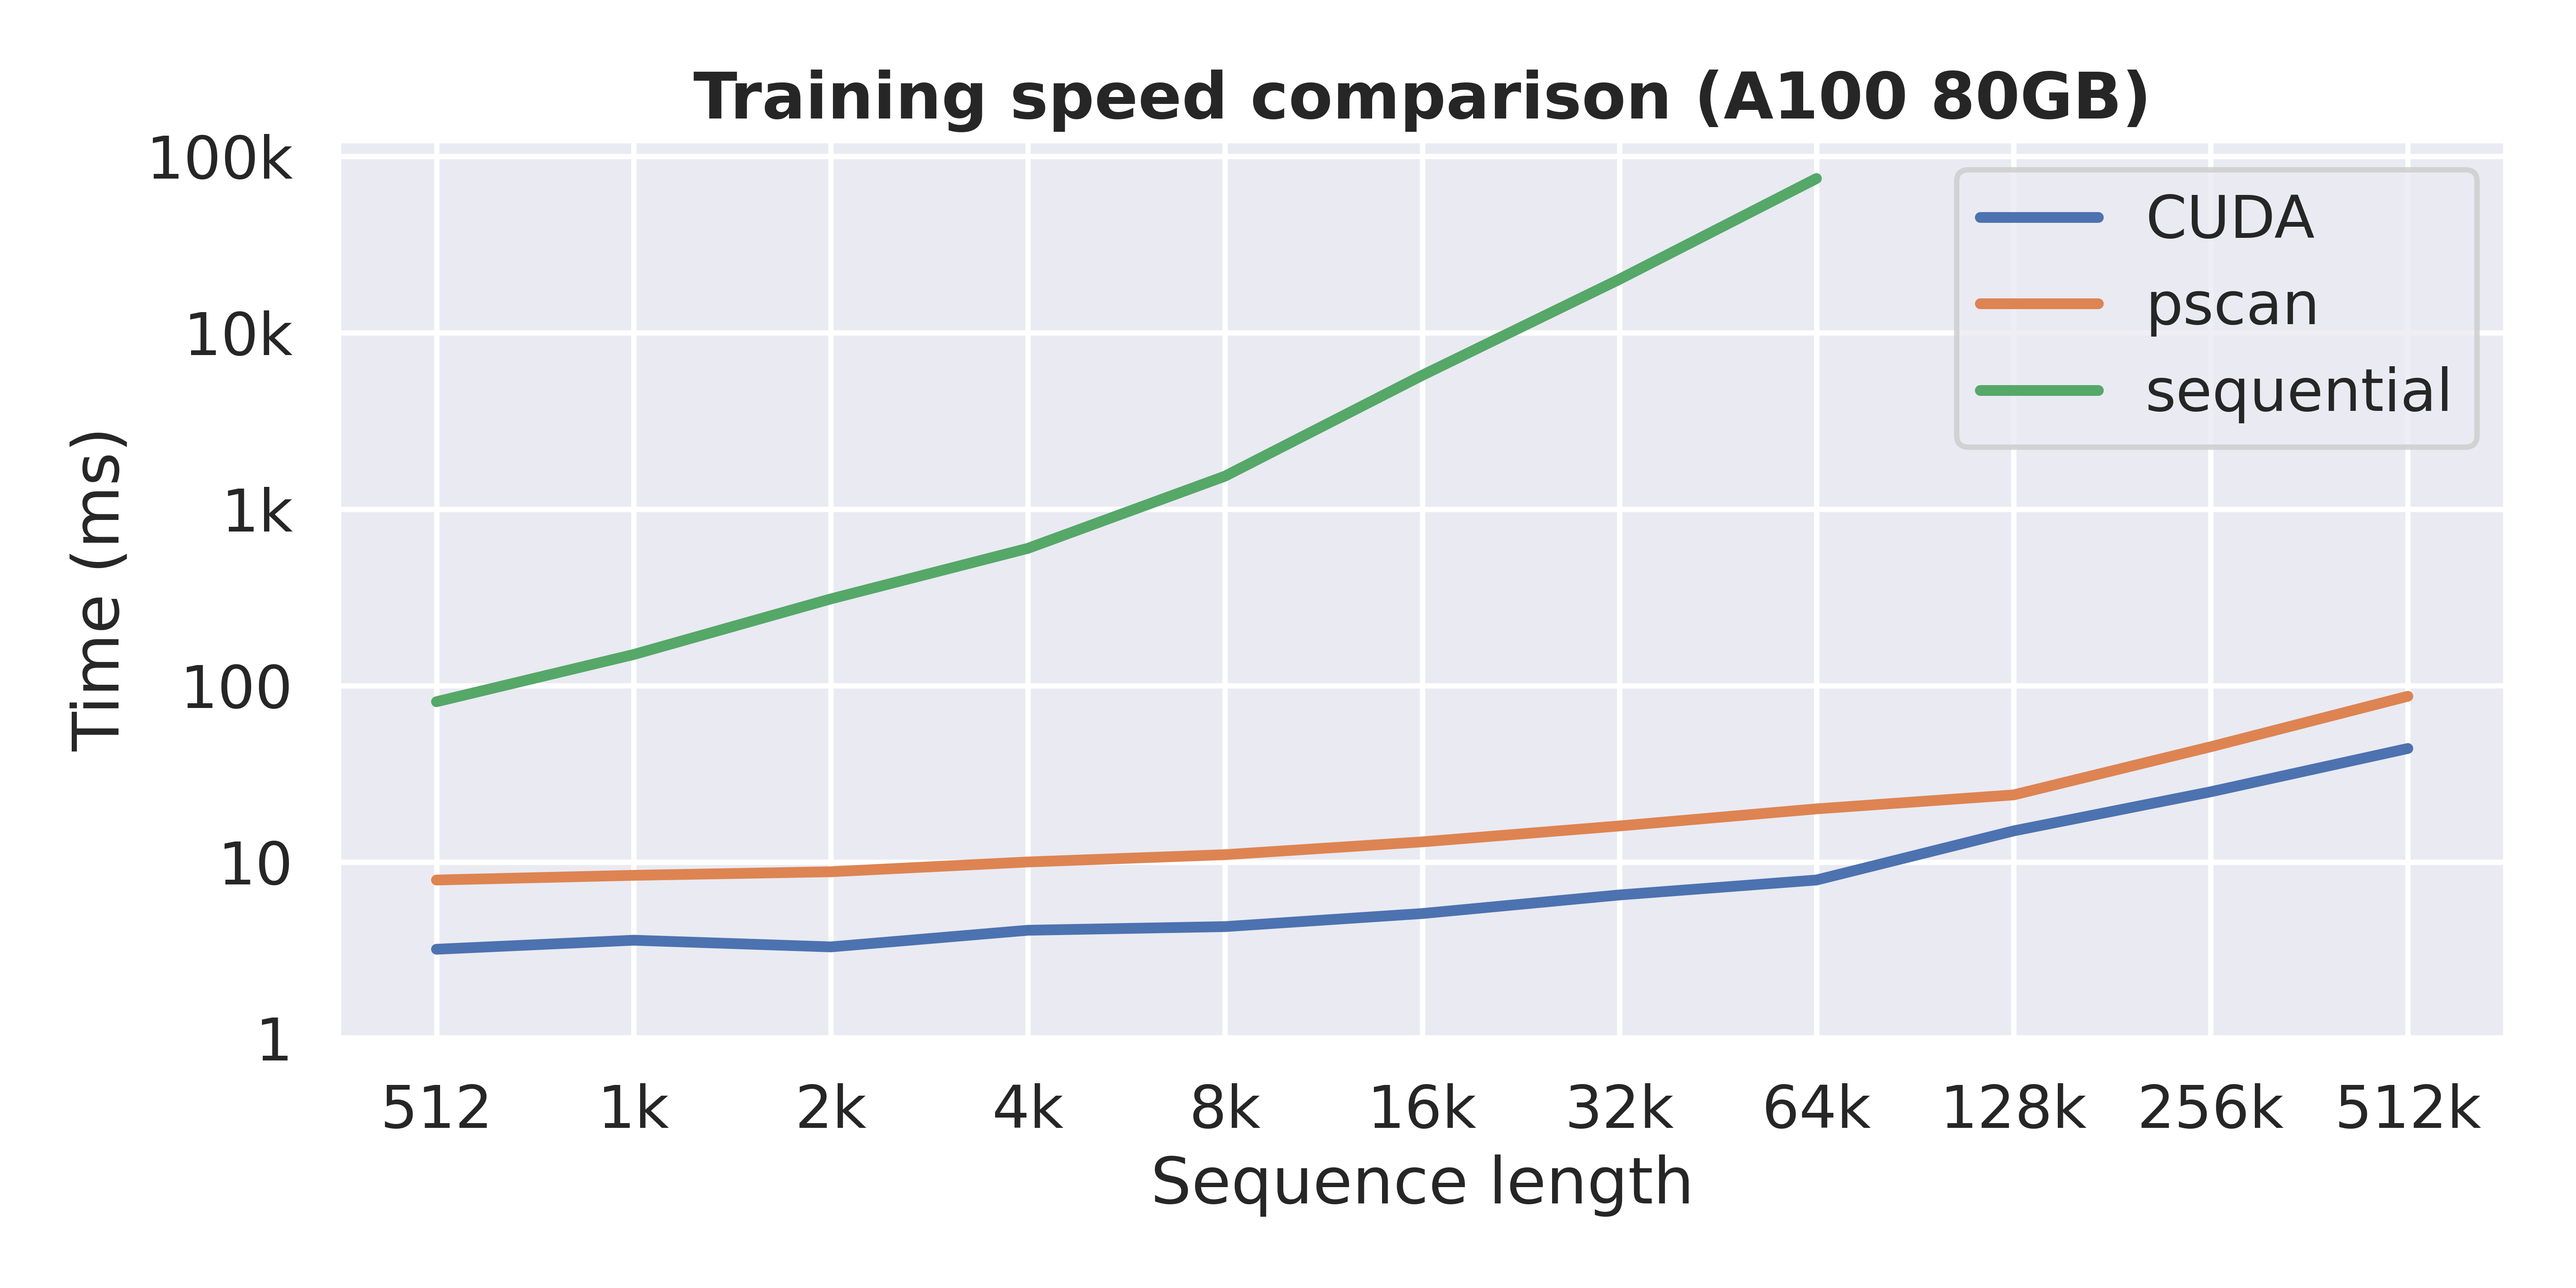
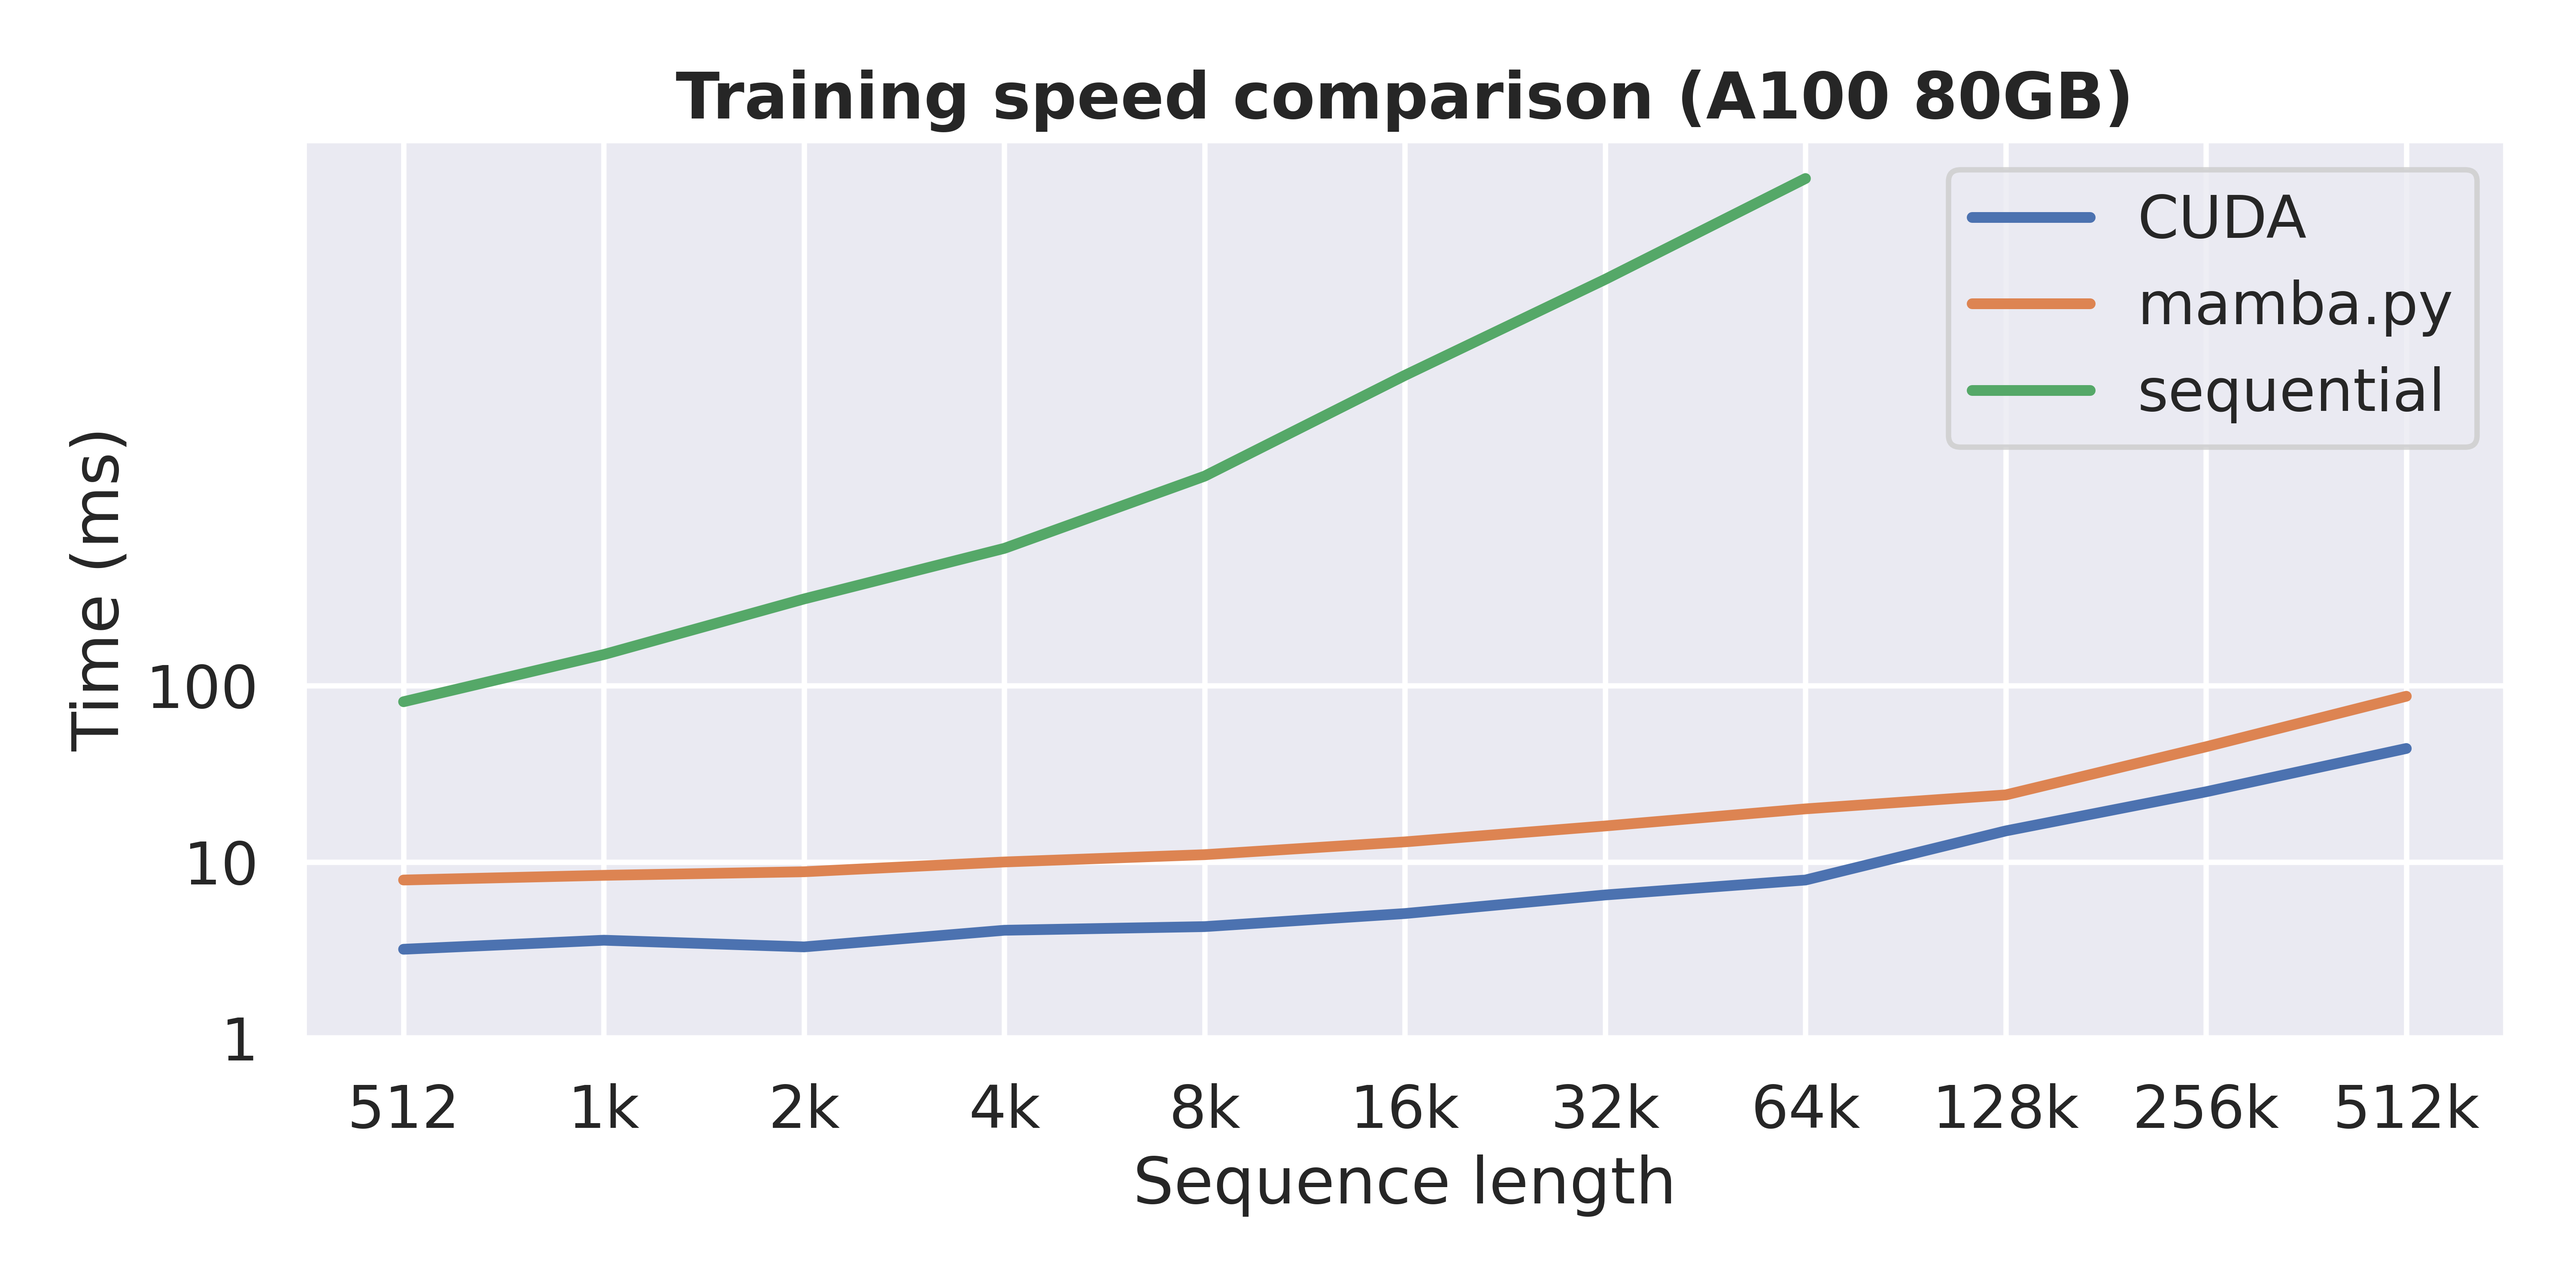
performances section

diff --git a/README.md b/README.md
@@ -4,7 +4,7 @@ It combines the ease of read with good performances.
 
 ![speed comparison](assets/speed_comparison.png)
 
-This graph shows the training time (forward and backward pass) of a single Mamba layer (```d_model=16, d_state=16```) using 3 different methods : ```CUDA```, which is the official [Mamba implementation](https://github.com/state-spaces/mamba), ```pscan```, which is this repo, and ```sequential```, which is a sequential implementation of the selective scan.
+This graph shows the training time (forward and backward pass) of a single Mamba layer (```d_model=16, d_state=16```) using 3 different methods : ```CUDA```, which is the official [Mamba implementation](https://github.com/state-spaces/mamba), ```mamba.py```, which is this repo, and ```sequential```, which is a  sequential implementation of the selective scan.
 
 This repo contains a simple and readable code implementing the [Mamba](https://arxiv.org/abs/2312.00752) architecture in pure PyTorch. Its primary goal is educational.
 
@@ -57,6 +57,42 @@ There are two basics examples available :
 - ```example_llm.ipynb``` : load a Mamba model with pretrained weights (from 130M to 2.8B from HuggingFace)
 - ```example_e2e_training.ipynb``` : an end-to-end training example where a Mamba model is employed as a world model for a simple 3-3 grid game (training is not completed, the model should be larger).
 
+## Performances
+This section provides a more comprehensive performance comparison between ```mamba.py``` and the official Mamba implementation.
+Overall, as the first graph of this file shows, both have approximately the same asymptotic performance with respect to the sequence length. You can think as ```mamba.py``` as a regular Transformer implementation, while the official Mamba implementation is more like FlashAttention v1. Both have their owns advantages.
+
+That being said, does the two implementations have the same asymptotic performances with respect to the other parameters ?
+
+##### ```d_model``` asymptotic performances
+<p align="center">
+    <img src="assets/training_vs_d_model.png" alt="a python and a mamba" 
+    width="800" height="413" alt="python mamba"/>
+</p>
+
+We can see that both implementations behave the same as we increase ```d_model```. The gap between the two stays roughly the same. (```mamba.py``` is overall ~2x slower)
+
+##### ```d_state``` asymptotic performances
+<p align="center">
+    <img src="assets/training_vs_d_state.png" alt="a python and a mamba" 
+    width="800" height="413" alt="python mamba"/>
+</p>
+
+This graph is important. We see that here, the asymptotic performance is not the same as we increase ```d_state```. For a reminder, ```d_state```, or $N$ in the paper, is the state expansion factor : each channel of the input is expanded into $N$ channels of the hidden state.
+
+Does it matter in practice ? As of now, all the pretrained Mamba models (up to 2.8B parameters) used ```d_state=16```, so this change of performance over ```d_state``` isn't important in this case. As ```d_state``` is not something that is supposed to grow (contrary to the seq length or ```d_model```), this isn't a catastrophic result, but something to consider.
+
+However, it is interesting to relate this observation with the claim made by Albert Gu and Tri Dao [Mamba paper](https://arxiv.org/abs/2312.00752) : <i>The main idea is to leverage properties of modern accelerators (GPUs) to <b>materialize the state ℎ only in more efficient levels of the memory hierarchy.</b></i>
+They also describe (Annex D) the main data movements of their selective scan : working mainly in SRAM, they can reduce the memory reads/writes by a factor of $O(N)$. This explains what we're seeing here.
+
+With ```d_state=16``` (as in ```state-spaces/mamba-2.8b-slimpj```), the gap between the two is relatively small, but with ```d_state=64``` (currently not used in any models), the gap widens. (note the OOM on the second graph)
+
+<p align="center">
+    <img src="assets/training_vs_seqlen_d_state_var.png" alt="a python and a mamba" 
+    width="1152" height="289" alt="python mamba"/>
+</p>
+
+All the previous graph were computed with a batch size of 1, on a A100 80GB.
+
 ## Sources and where to learn more
 - the [Mamba paper](https://arxiv.org/abs/2312.00752) : describes the Mamba architecture as implemented in this repo, which allows to model sequences in linear time.
 - the [Mamba implementation](https://github.com/state-spaces/mamba), which is written in PyTorch but uses a parallel scan written in CUDA. This is the version that is the fastest. 
@@ -67,9 +103,11 @@ There are two basics examples available :
 
 ## TODOs
 - docs
-- more tests with an increased ```d_model``` (add a Performances section)
+~~ - more tests with an increased ```d_model``` (add a Performances section) ~~
 - a step function, used for (auto-regressive) inference.
 - a training function, similar to [llama2.c](https://github.com/karpathy/llama2.c)
+
+perfs :
 - unfold the for-loops in ```pscan.py``` to achieve better performance (see [François Fleuret's pscan](https://fleuret.org/cgi-bin/gitweb/gitweb.cgi?p=mygptrnn.git;a=blob;f=pscan.py;h=0bb0d145bf9c6c82115956c8ce1e6a063e56e747;hb=HEAD)) (although this will sacrifice readability of bit)
 - write a reverse parallel scan specifically for the backward pass. (For now, we have to flip the array before and after the scan).
 - use torch.compile(). As far as I tested, it doesn’t work for now. It seems it isn’t happy with the custom PScan autograd function. Need to investigate. <b>(see [PR#1](https://github.com/alxndrTL/mamba.py/pull/1))</b>
